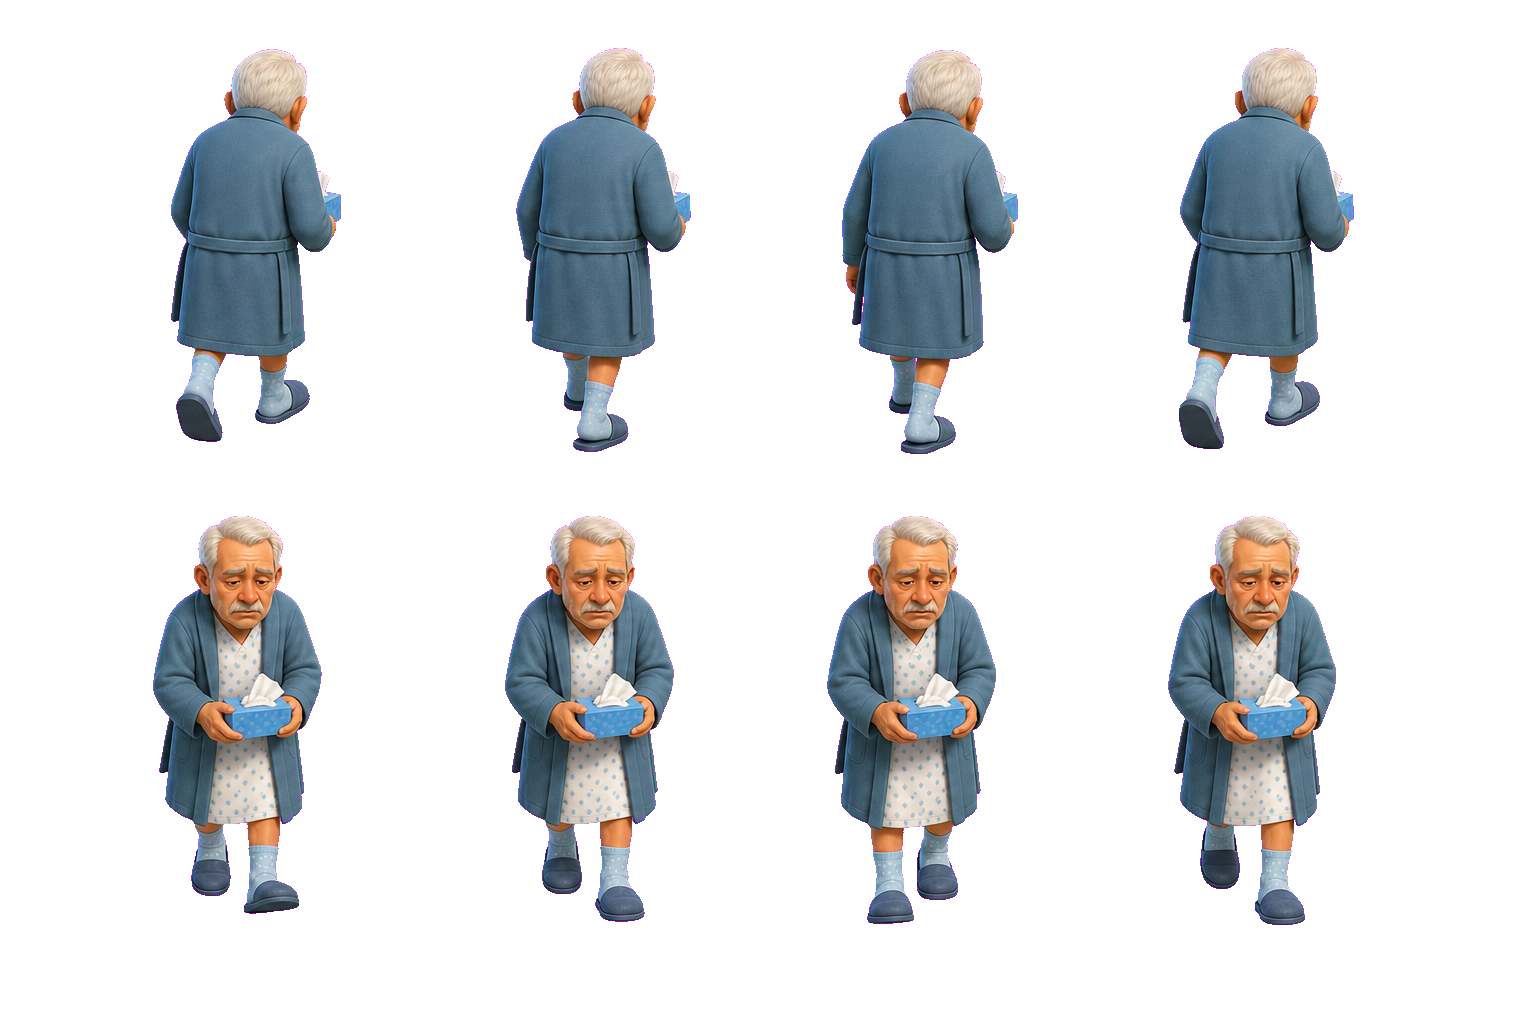
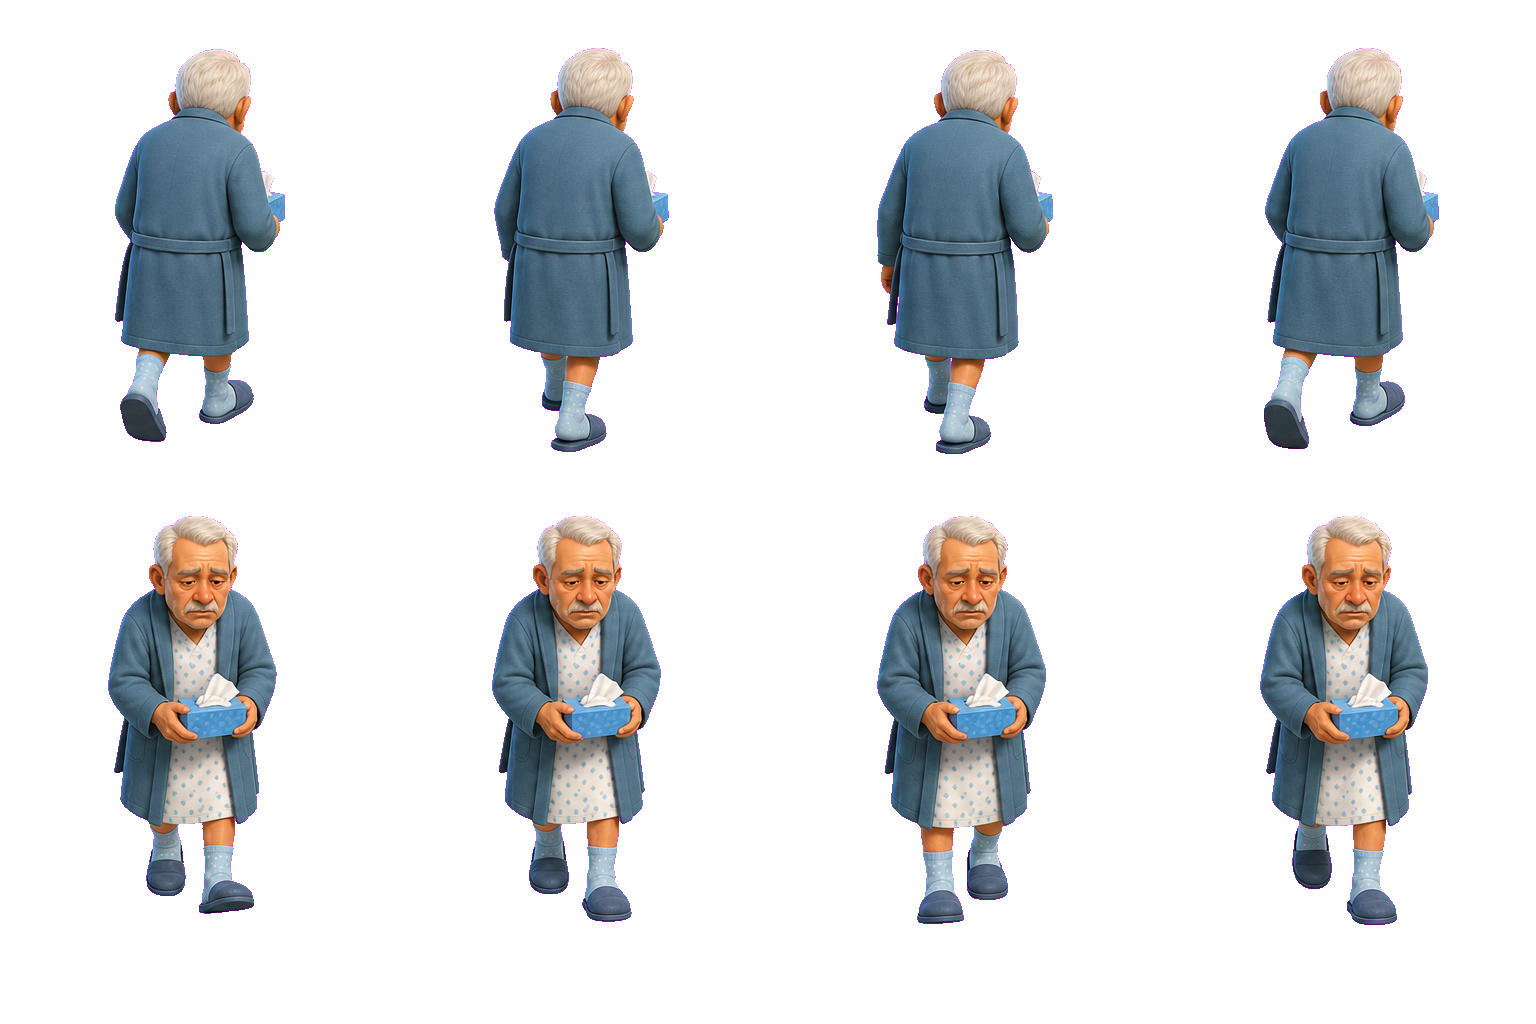
Roamers: re-center walk frames (no side-to-side rocking), up faces like down, keep original 3 patrollers

diff --git a/script.js b/script.js
@@ -1261,7 +1261,6 @@ function buildImageMaze(worldEl) {
     { x: 700, y: 430, w: 46, h: 46, min: 360, max: 500, vy: 1.8 },
     { x: 950, y: 540, w: 46, h: 46, min: 460, max: 640, vy: -1.8 },
     { x: 560, y: 640, w: 46, h: 46, min: 560, max: 720, vy: 1.6 },
-    { x: 1205, y: 400, w: 46, h: 46, min: 340, max: 560, vy: 1.7 }, // far-right corridor (kept right so you can pass on the left)
   ];
   hazardCooldown = 0;
   hazards.forEach((h, i) => {

diff --git a/style.css b/style.css
@@ -4804,8 +4804,10 @@ img {
   pointer-events: none;
   animation: roamerWalk 0.62s infinite;
 }
+/* Walking up uses the SAME row as walking down (per feedback) — both face the
+   way the down sprite faces. */
 .hazard.roamer[data-facing="up"] .roamer-sprite {
-  background-position-y: 100%;
+  background-position-y: 0%;
 }
 @keyframes roamerWalk {
   0%,
